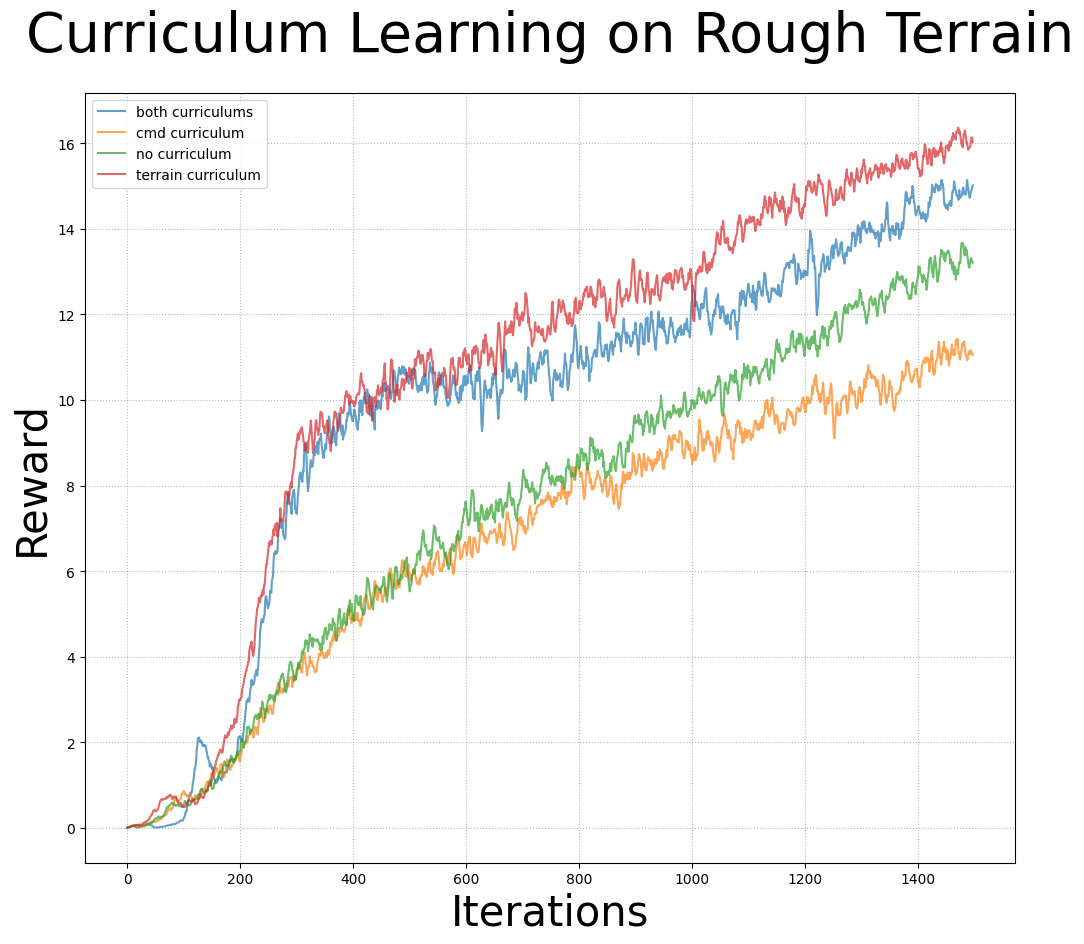
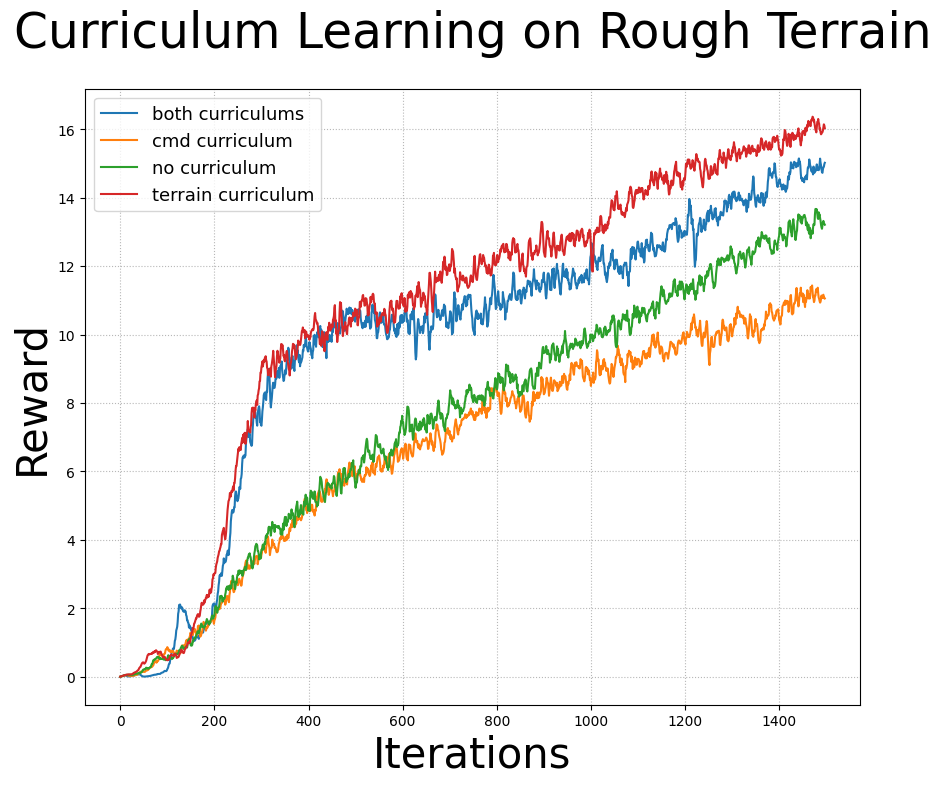
working on ploots

Changed region(s): [[0.0, 0.0, 0.9862, 1.0]]

diff --git a/isaac-gym/scripts/plots.py b/isaac-gym/scripts/plots.py
@@ -57,10 +57,10 @@ def build_plot(title, x_label, y_label, x_datas, y_datas, run_labels, to_img=Fal
     assert len(x_datas) == len(y_datas), 'x_datas need to have the number of run than y_datas'
     assert (len(x_datas) == len(run_labels)) or  len(run_labels) == 0, 'you need to provide all the run labels or none of them !'
 
-    figure(figsize=(12, 10), dpi=100)
+    figure(figsize=(10, 8), dpi=100)
     
     # Add title
-    plt.title(title, fontsize=40, pad=30)
+    plt.title(title, fontsize=35, pad=30)
 
     # Add the grid
     plt.grid(True, linestyle=':', alpha=0.9)
@@ -77,11 +77,11 @@ def build_plot(title, x_label, y_label, x_datas, y_datas, run_labels, to_img=Fal
         else:
             label = run_labels[idx]
         y = smooth_data(y, 5)
-        plt.plot(x[:-2], y[:-2], label=label, alpha=0.7)
+        plt.plot(x[:-2], y[:-2], label=label, alpha=1.0)
 
     # Add the legend
     if len(run_labels) >= 1:
-        plt.legend(loc='upper left')
+        plt.legend(loc='upper left', fontsize=13)
 
     # Save plot
     if to_img:

diff --git a/stanford-pupper/scripts/plot_imu_data.py b/stanford-pupper/scripts/plot_imu_data.py
@@ -17,7 +17,10 @@ for t in time:
         x_gt.append(0.0)
 
 plt.figure()
+plt.title("Velocity Estimation from IMU")
 plt.plot(time, x_kalman, label='kalman')
 plt.plot(time, x_gt, label='approx gt')
+plt.xlabel("Time [s]")
+plt.ylabel("X Velocity [m/s]")
 plt.legend()
 plt.show()
